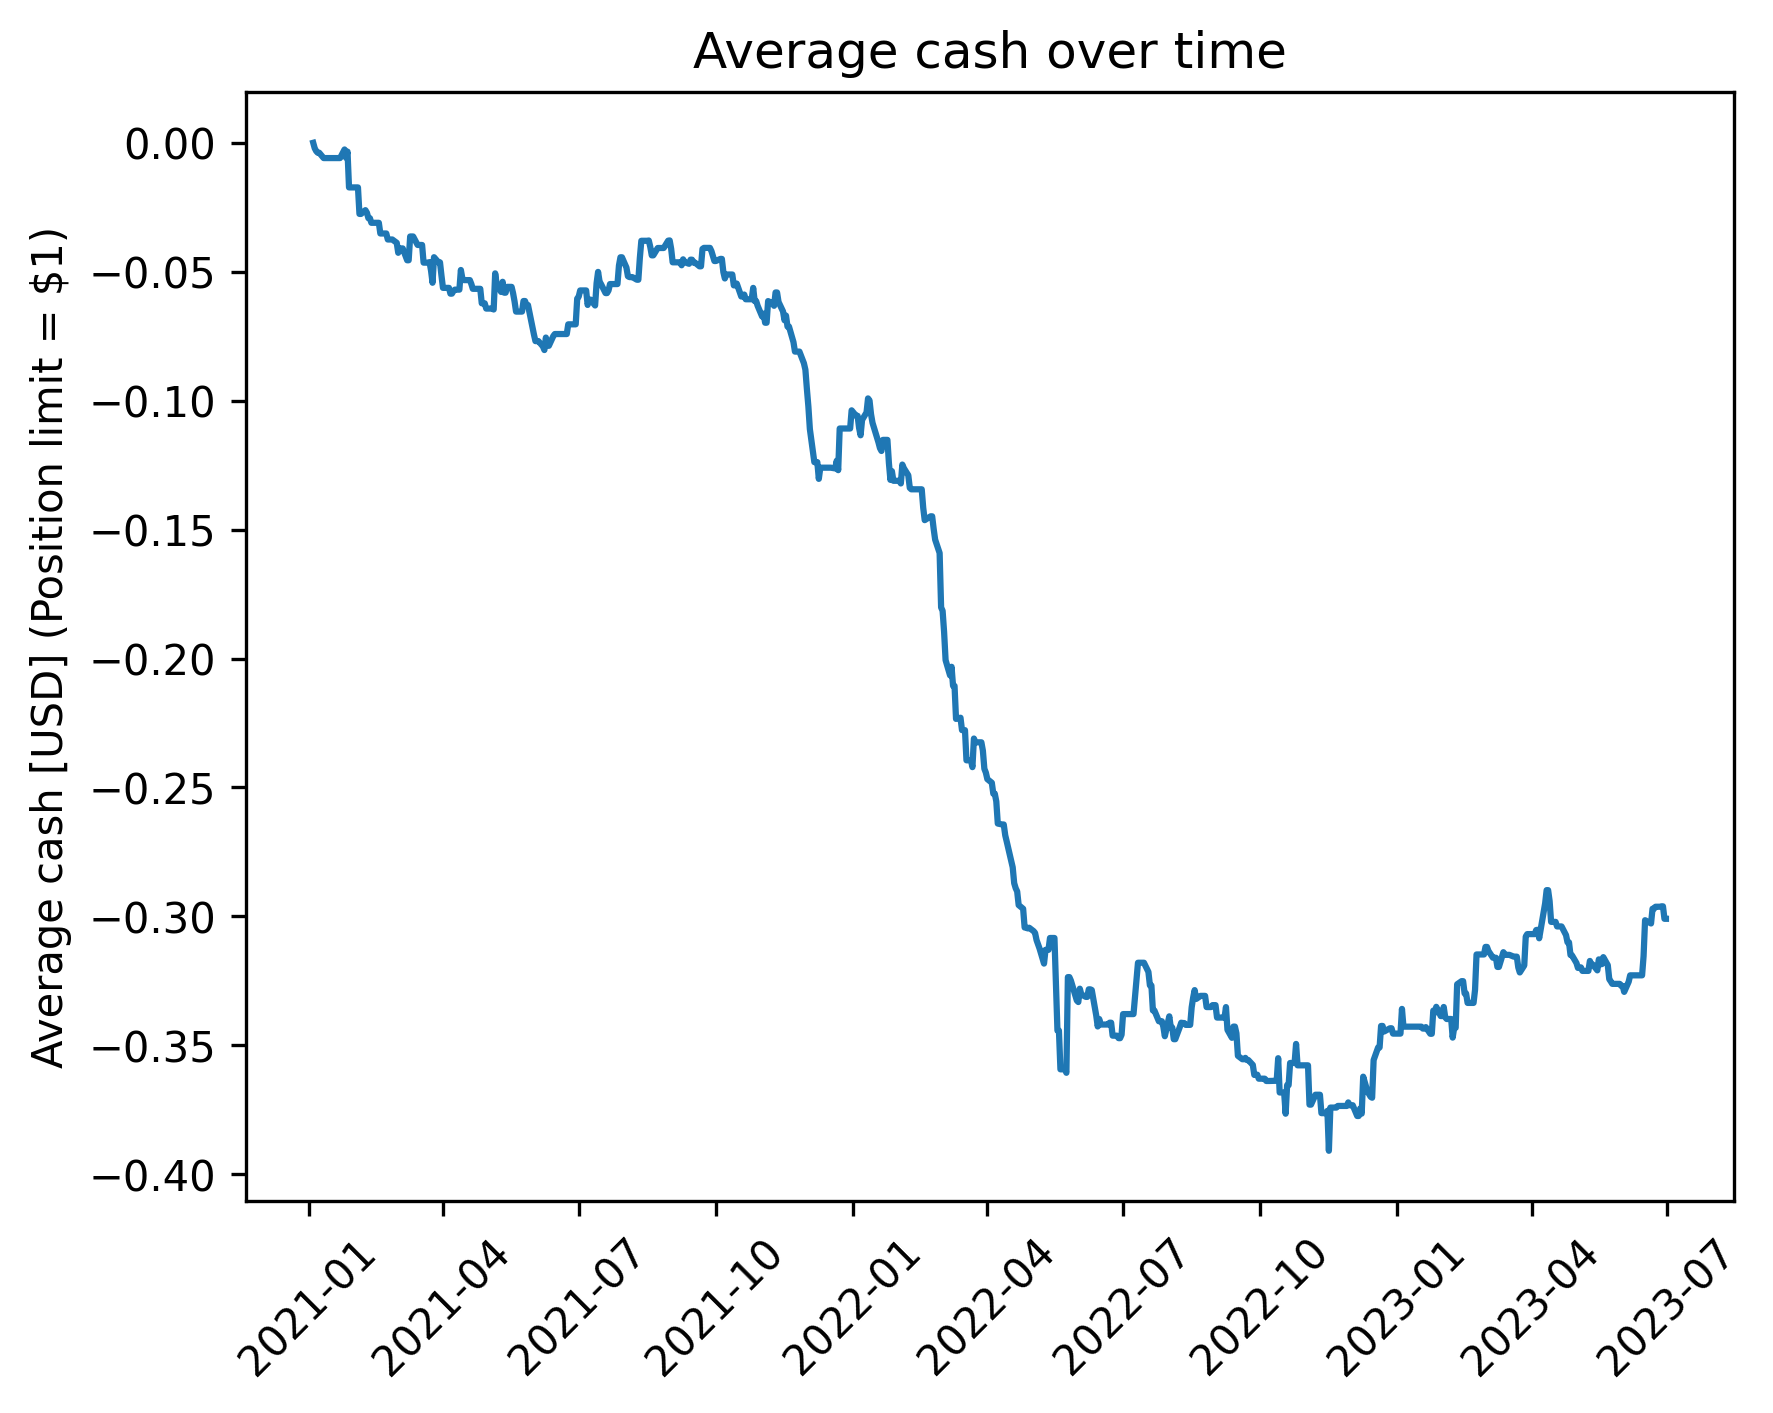
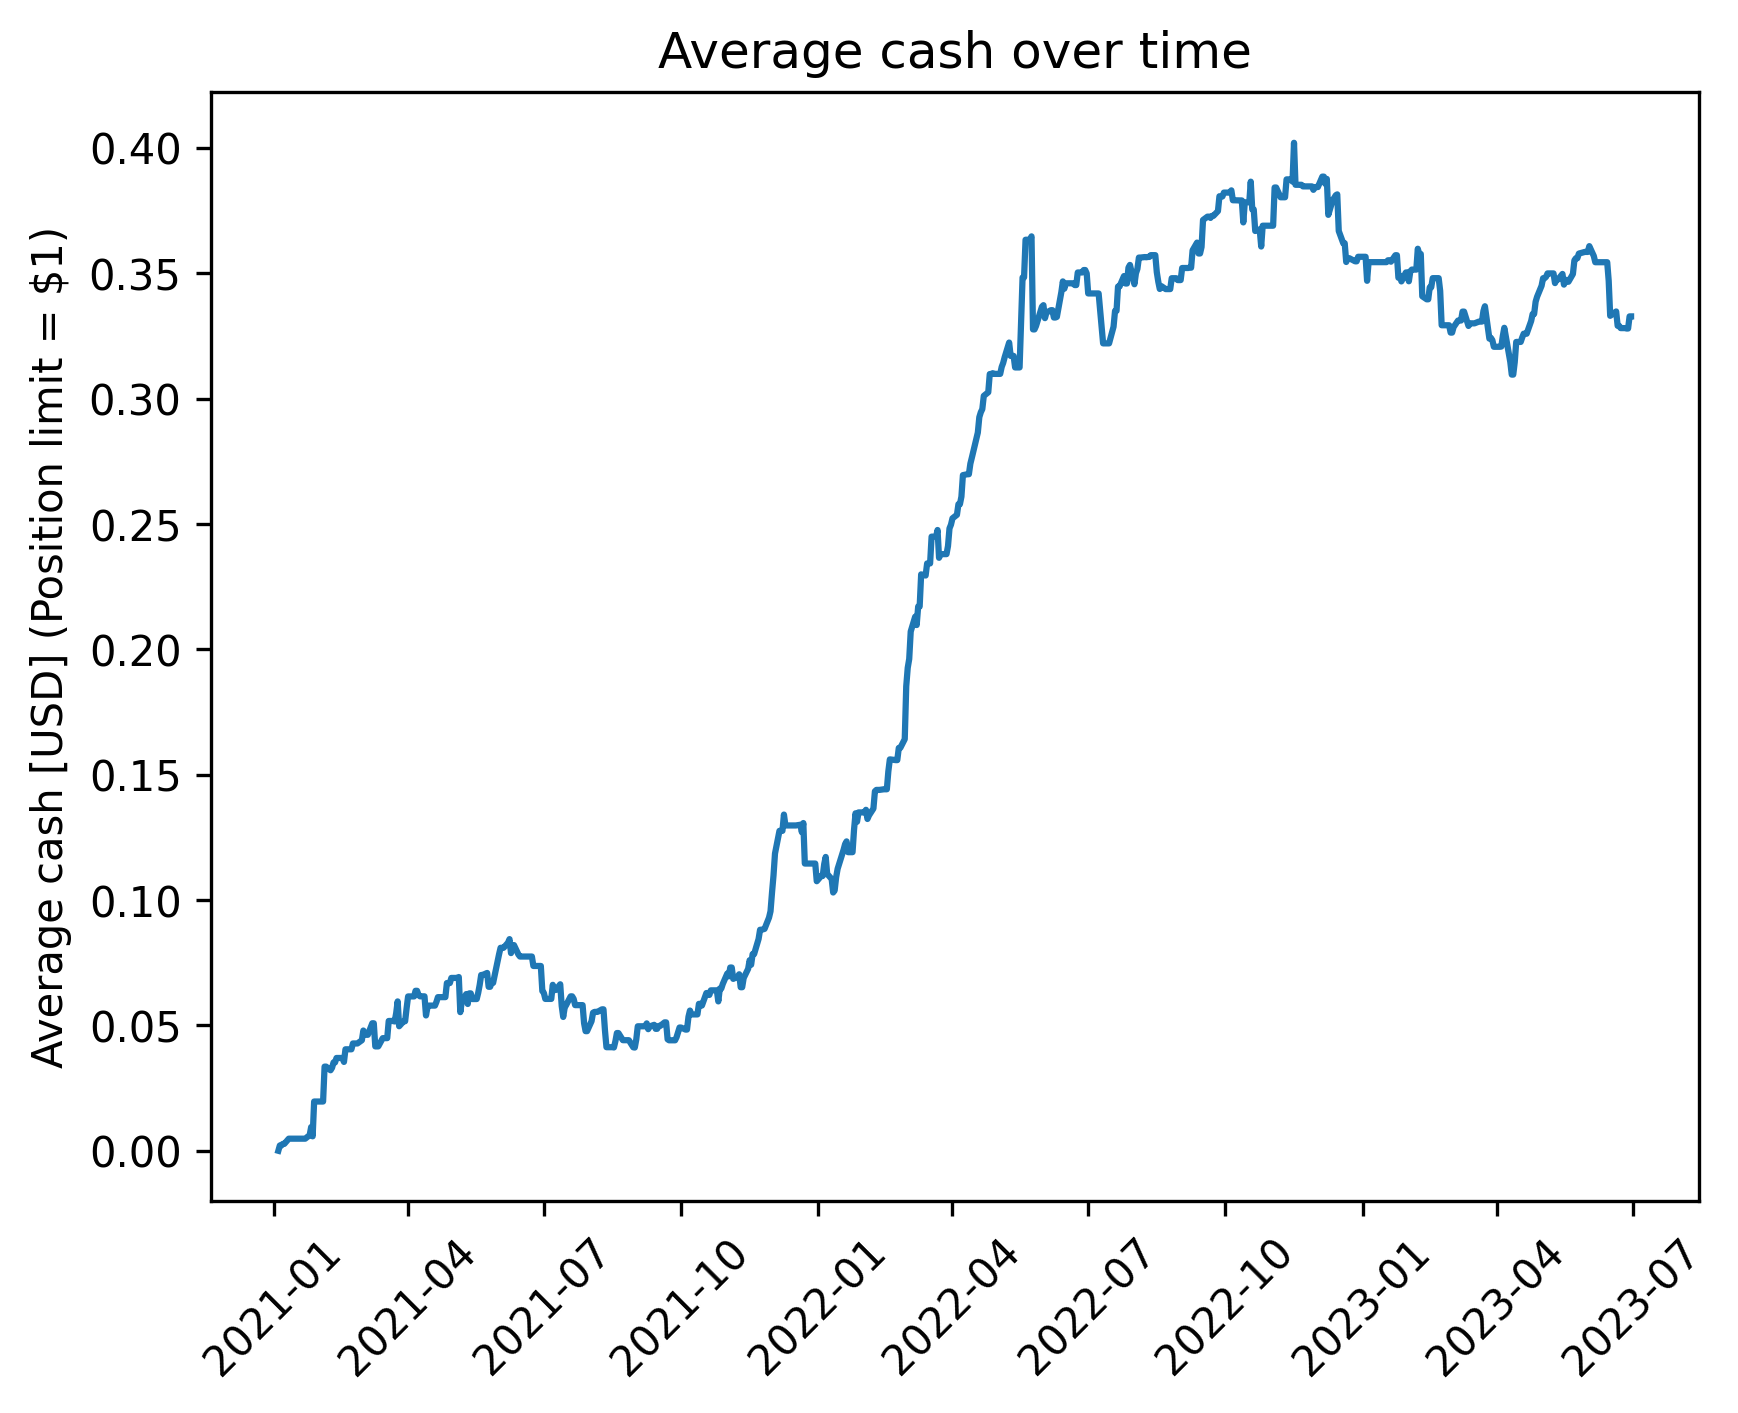
Added a better version of StrategyB called StrategyB2

diff --git a/pairs_trading_oaf/strategies.py b/pairs_trading_oaf/strategies.py
@@ -153,6 +153,17 @@ class StrategyB(BaseStrategy):
         signal = macd.ewm(span=signal_window_size, adjust=False).mean()
         return macd, signal
 
+    @staticmethod
+    def calc_macd_new_signal(ratio, slow_window_size, fast_window_size, signal_window_size):
+        """
+        Calculate the MACD and signal line for a given stock pair ratio.
+        """
+        fast_ema = ratio.ewm(span=fast_window_size, adjust=False).mean()
+        slow_ema = ratio.ewm(span=slow_window_size, adjust=False).mean()
+        macd = fast_ema - slow_ema
+        signal = macd.ewm(span=signal_window_size, adjust=False).mean()
+        return macd, signal
+
     def calculate_new_position(self):
         """
         Calculate the new position for the pair portfolio.
@@ -185,3 +196,107 @@ class StrategyB(BaseStrategy):
         else:
             # Don't change the position if the MACD and signal line do not cross
             return self.pair_portfolio.position
+
+class StrategyB2(BaseStrategy):
+    """
+    Moving Average Convergence Divergence (MACD) strategy.
+
+    The MACD strategy is a trend following strategy that uses the difference between
+    two moving averages of the stock prices to determine the position.
+
+    The MACD line is the difference between the 26-day and 12-day exponential moving averages
+    of the stock prices. The signal line is the 9-day exponential moving average of the MACD line.
+
+    The position is long stock A and short stock B if the MACD crosses above the signal line.
+
+    The position is long stock B and short stock A if the MACD crosses below the signal line.
+    """
+
+    class MACDVals:
+        """
+        Class to store the MACD and signal values as well as the exponential moving averages
+        of the ratio of the stock prices.
+        """
+        def __init__(self, fast_period: int = 12, slow_period: int = 26, signal_period: int = 9):
+            self.fast_period = fast_period
+            self.slow_period = slow_period
+            self.signal_period = signal_period
+            self.fast_ewma = 0.0
+            self.slow_ewma = 0.0
+            self.macd = 0.0
+            self.signal = 0.0
+
+    def __init__(self, pair_portfolio,
+                 fast_period: int = 12,
+                 slow_period: int = 26,
+                 signal_period: int = 9,
+                 training_period: int = 100):
+        self.pair_portfolio = pair_portfolio
+        self.macd = self.MACDVals(fast_period, slow_period, signal_period)
+        self.calc_initial_macd_signal(training_period)
+
+    def calc_macd_signal(self, ratio):
+        """
+        Update the MACD and signal values using the latest ratio.
+
+        Returns:
+        - macd: the latest MACD value
+        - signal: the latest signal value
+        Overwrites the stored values of the fast and slow exponential moving averages
+        of the price ratios.
+        """
+        alpha_fast = 2 / (self.macd.fast_period + 1)
+        alpha_slow = 2 / (self.macd.slow_period + 1)
+        alpha_signal = 2 / (self.macd.signal_period + 1)
+        self.macd.fast_ewma = alpha_fast * ratio + (1 - alpha_fast) * self.macd.fast_ewma
+        self.macd.slow_ewma = alpha_slow * ratio + (1 - alpha_slow) * self.macd.slow_ewma
+        macd = self.macd.fast_ewma - self.macd.slow_ewma
+        signal = alpha_signal * macd + (1 - alpha_signal) * self.macd.signal
+        return macd, signal
+
+    def calc_initial_macd_signal(self, training_period):
+        """
+        Calculate the initial MACD and signal values using the training data.
+        """
+        df_train = data.read_csv(self.pair_portfolio.training_data_str)
+        df_train = df_train.tail(training_period)
+        ratios = df_train[self.pair_portfolio.stock_pair_labels[0]] \
+               / df_train[self.pair_portfolio.stock_pair_labels[1]]
+        for ratio in ratios:
+            new_macd, new_signal = self.calc_macd_signal(ratio)
+            self.macd.macd = new_macd
+            self.macd.signal = new_signal
+
+    def calculate_new_position(self):
+        """
+        Calculate the new position for the pair portfolio.
+
+        Takes the latest prices of the stock pair and calculates the new position based on the
+        MACD and signal line. The new position can be one of the following strings:
+        - "no position"
+        - "long A short B"
+        - "long B short A"
+        """
+        new_prices = self.pair_portfolio.stock_pair_prices
+        ratio = new_prices[0] / new_prices[1]
+        new_macd, new_signal = self.calc_macd_signal(ratio)
+        old_macd = self.macd.macd
+        old_signal = self.macd.signal
+
+        if new_macd > new_signal and old_macd < old_signal:
+            # MACD crossed above signal line so long stock A and short stock B
+            # position = 'long A short B'
+            position = 'long B short A'
+        elif new_macd < new_signal and old_macd > old_signal:
+            # MACD crossed below signal line so long stock B and short stock A
+            # position = 'long B short A'
+            position = 'long A short B'
+        else:
+            # Don't change the position if the MACD and signal line do not cross
+            position = self.pair_portfolio.position
+
+        # Update the stored MACD and signal values ready for the next day
+        self.macd.macd = new_macd
+        self.macd.signal = new_signal
+
+        return position

diff --git a/pairs_trading_oaf/plotting.py b/pairs_trading_oaf/plotting.py
@@ -37,6 +37,7 @@ def plot_portfolio_value_over_time(master_portfolio,
         fname = os.path.join(plots_dir, 'portfolio_value_over_time_' +
                              f'{pair_portfolio.strategy.__class__.__name__}' + '_' +
                              stock_a_label + '_' + stock_b_label + '.png')
+        fig.savefig(fname, dpi=300, bbox_inches='tight')
 
         if plot_cash:
 
@@ -51,7 +52,6 @@ def plot_portfolio_value_over_time(master_portfolio,
             fname = os.path.join(plots_dir, 'cash_value_over_time_' +
                                 f'{pair_portfolio.strategy.__class__.__name__}' + '_' +
                                 stock_a_label + '_' + stock_b_label + '.png')
-
             fig.savefig(fname, dpi=300, bbox_inches='tight')
 
     fig, ax = plt.subplots()

diff --git a/pairs_trading_oaf/main.py b/pairs_trading_oaf/main.py
@@ -34,7 +34,7 @@ stock_pair_labels_list = [
     ("Caterpillar Inc. (NYSE:CAT)", "Deere & Company (NYSE:DE)"),
     ("Wells Fargo & Company (NYSE:WFC)", "Citigroup Inc. (NYSE:C)"),
 ]
-StrategyClass = strategies.StrategyB
+StrategyClass = strategies.StrategyB2
 
 master_portfolio = portfolio.MasterPortfolio(POSITION_LIMIT,
                                              TRAINING_DATA_FNAME,
@@ -53,4 +53,4 @@ plotting.plot_portfolio_value_over_time(master_portfolio)
 toc = time.perf_counter()
 print(f"Time taken: {toc - tic:0.4f} seconds")
 
-plt.show()
+# plt.show()
